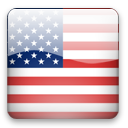
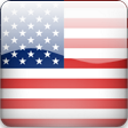
Issue:SDK-499 국기 여백 없애기

diff --git a/Classes/MainViewController.m b/Classes/MainViewController.m
@@ -2334,7 +2334,8 @@
 		return strData;
 	} else {
 		// zzz 에러처리
-        NSLog(@"theError:%@", [theError localizedDescription]);
+        DLog(@"theError:%@", [theError localizedDescription]);
+        //[self alertLocalizedAlertView:[theError localizedDescription]];
 	}
 	
 	
